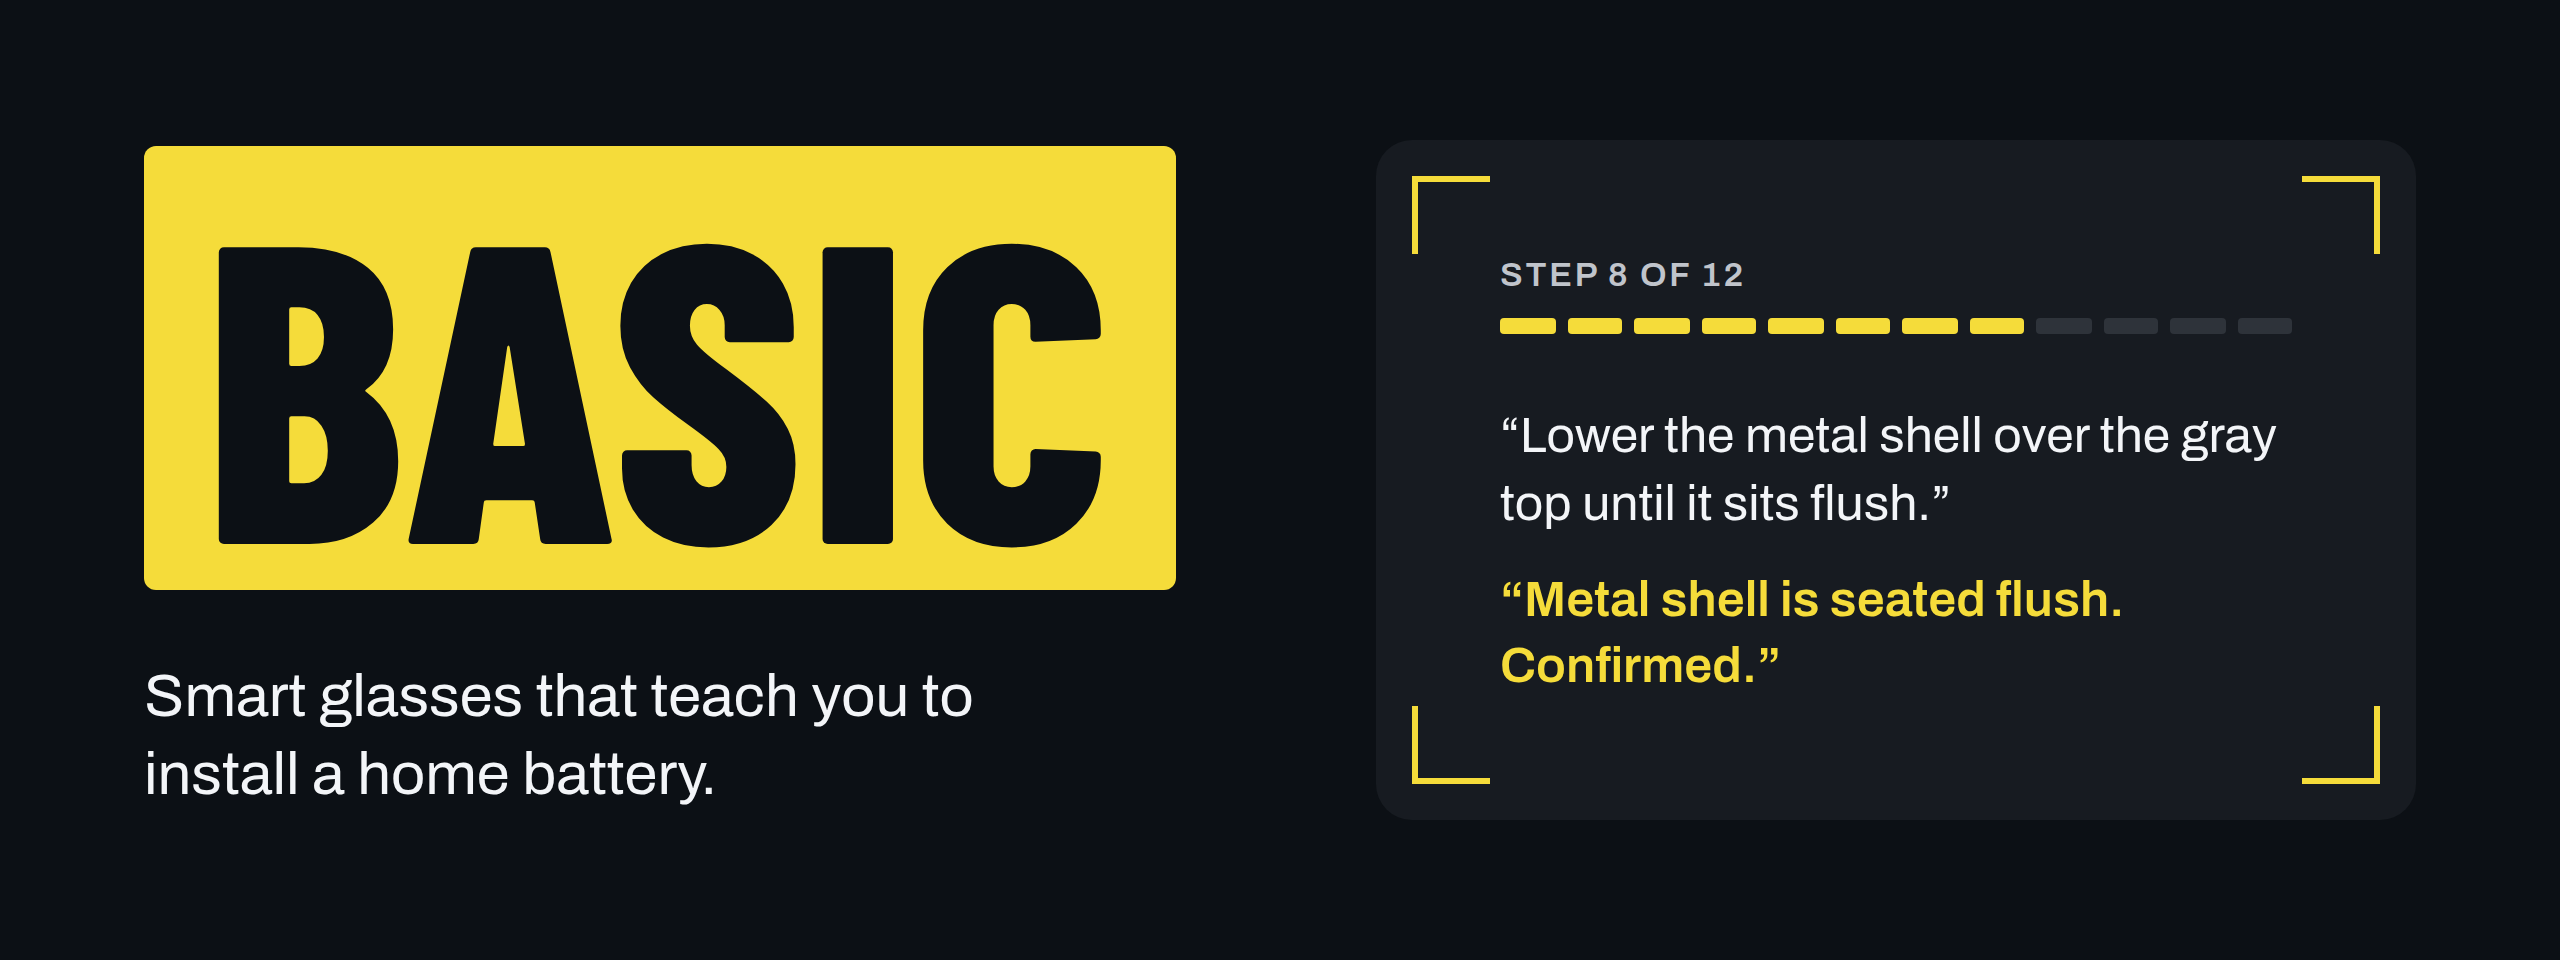
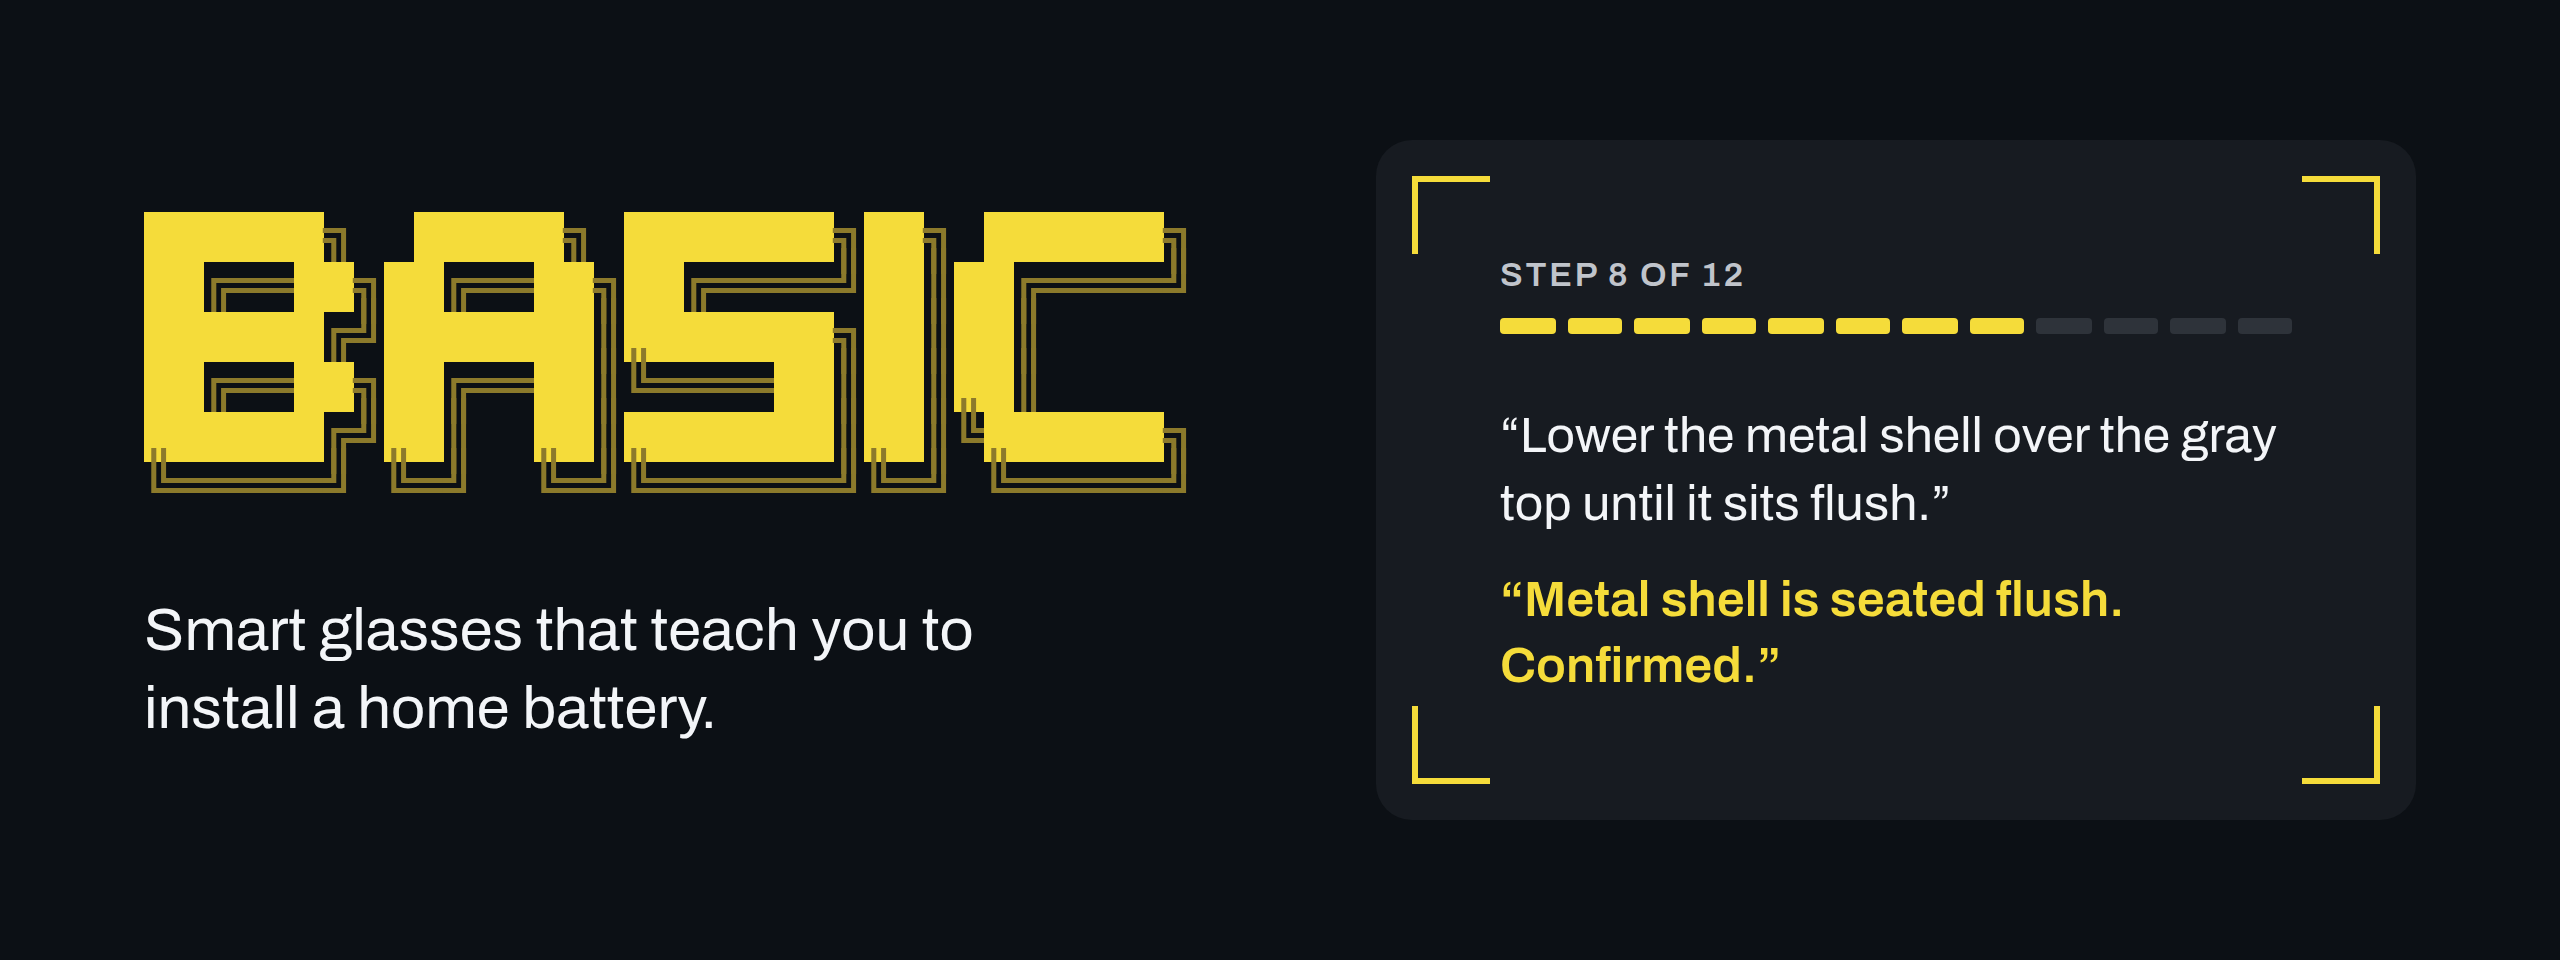
Title card: BASIC in terminal block art

Changed region(s): [[0.0312, 0.125, 0.4688, 0.8438]]

diff --git a/docs/assets/title-card.html b/docs/assets/title-card.html
@@ -4,7 +4,7 @@
 <meta charset="utf-8">
 <title>BASIC title card</title>
 <style>
-  @font-face { font-family: "Barlow Condensed"; font-weight: 800; src: url("../../node_modules/@fontsource/barlow-condensed/files/barlow-condensed-latin-800-normal.woff2") format("woff2"); }
+  @font-face { font-family: "JetBrains Mono"; font-weight: 400; src: url("file:///usr/share/fonts/truetype/jetbrains-mono-zorin-os/JetBrainsMono-Regular.ttf"); }
   @font-face { font-family: "Archivo"; font-weight: 400; src: url("../../node_modules/@fontsource/archivo/files/archivo-latin-400-normal.woff2") format("woff2"); }
   @font-face { font-family: "Archivo"; font-weight: 600; src: url("../../node_modules/@fontsource/archivo/files/archivo-latin-600-normal.woff2") format("woff2"); }
 
@@ -28,20 +28,19 @@
     font-family: "Archivo", sans-serif;
     color: var(--paper);
   }
-  .tag {
-    display: inline-block;
-    background: var(--hivis);
-    color: var(--ink);
-    font-family: "Barlow Condensed", sans-serif;
-    font-weight: 800;
-    font-size: 212px;
-    line-height: 0.8;
-    letter-spacing: 0.01em;
-    padding: 30px 30px 22px;
-    border-radius: 6px;
+  .art {
+    margin: 0;
+    font-family: "JetBrains Mono", monospace;
+    font-size: 25px;
+    line-height: 1;
+    white-space: nowrap;
+    color: var(--hivis);
   }
+  .art .sh { color: oklch(0.58 0.1 96); }
+  .art i { display: inline-block; width: 15px; height: 25px; vertical-align: top; font-style: normal; text-align: center; }
+  .art i.b { background: var(--hivis); }
   .line {
-    margin: 34px 0 0;
+    margin: 40px 0 0;
     font-size: 30px;
     line-height: 1.3;
     font-weight: 400;
@@ -75,7 +74,7 @@
 </head>
 <body>
   <div>
-    <div class="tag">BASIC</div>
+    <pre class="art" id="art"></pre>
     <p class="line">Smart glasses that teach you to install a home battery.</p>
   </div>
   <div class="view">
@@ -89,5 +88,18 @@
       <p class="say pass">“Metal shell is seated flush. Confirmed.”</p>
     </div>
   </div>
+<script>
+  const rows = [
+    "██████╗  █████╗ ███████╗██╗ ██████╗",
+    "██╔══██╗██╔══██╗██╔════╝██║██╔════╝",
+    "██████╔╝███████║███████╗██║██║     ",
+    "██╔══██╗██╔══██║╚════██║██║██║     ",
+    "██████╔╝██║  ██║███████║██║╚██████╗",
+    "╚═════╝ ╚═╝  ╚═╝╚══════╝╚═╝ ╚═════╝",
+  ];
+  document.getElementById('art').innerHTML = rows
+    .map((r) => [...r].map((c) => (c === '█' ? '<i class="b"></i>' : c === ' ' ? '<i></i>' : `<i class="sh">${c}</i>`)).join(''))
+    .join('<br>');
+</script>
 </body>
 </html>
